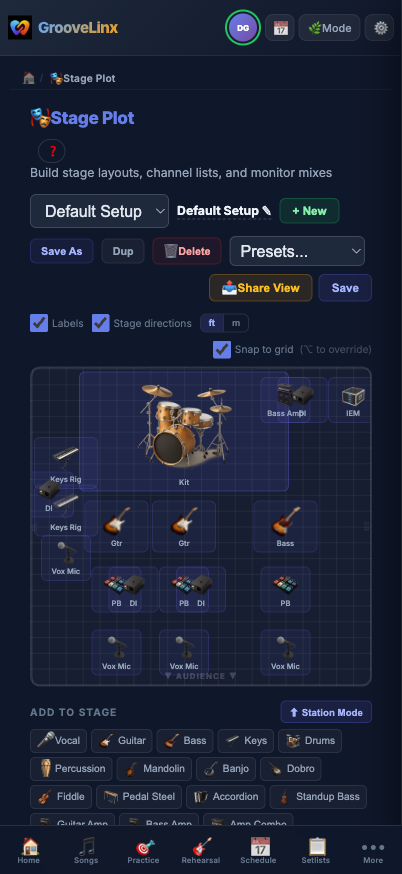
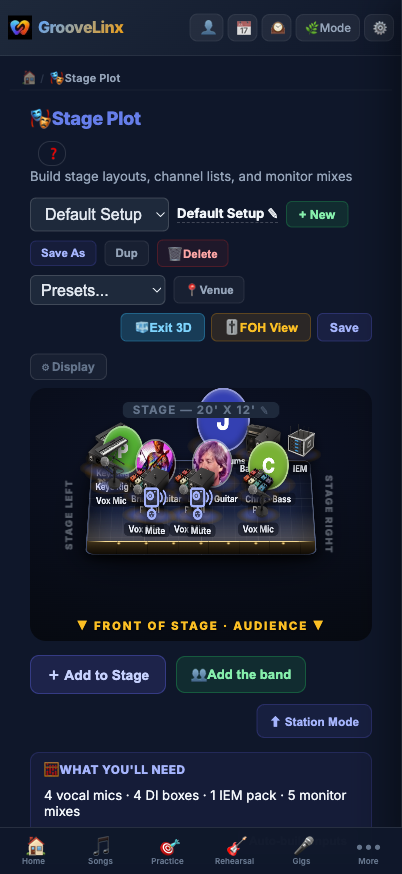
marketing(perform): real 3D stage plot capture + split charts into its own showcase
The Perform showcase paired a stale 2D stage-plot screenshot with copy about
charts. Fix the mismatch:
- gl-stageplot.png → fresh capture of the upgraded 3D stage view (member
  positions, monitor mixes, DI/IEM, auto gear pull), with copy rewritten to
  describe show-day staging.
- Add gl-chart.png (real Live Gig per-song chart) as a second showcase carrying
  the "chart you actually need" copy (auto-scroll, nav, sub-second SLA).

Both are real app screenshots at 402x874 (Test User, exclusion-guarded).

Claude-Session: https://claude.ai/code/session_012gvVjaAds3TFjzahj6JtfA

diff --git a/index.html b/index.html
@@ -291,7 +291,17 @@
 
           <div class="showcase reveal" style="--glow:rgba(255,194,75,.16)">
             <div class="phoneCard">
-              <div class="phoneFrame"><img src="/images/gl-stageplot.png" width="402" height="874" alt="GrooveLinx stage plot with band positions, mics and monitors" loading="lazy" /></div>
+              <div class="phoneFrame"><img src="/images/gl-stageplot.png" width="402" height="874" alt="GrooveLinx 3D stage plot showing each member's position, monitor mixes, DI and IEM placement and the full gear pull for the show" loading="lazy" /></div>
+            </div>
+            <div class="copy">
+              <h3>Everyone knows where they stand &mdash; before you load in</h3>
+              <p>Map the whole stage: each member's spot, monitor mixes, DI boxes and IEMs, with a channel list and a gear pull &mdash; "4 vocal mics, 4 DI boxes, 5 monitor mixes" &mdash; generated for you. Flip to a 3D view to check sightlines, then share it with the venue or FOH so nobody's guessing on show day.</p>
+            </div>
+          </div>
+
+          <div class="showcase reveal" style="--glow:rgba(255,194,75,.16)">
+            <div class="phoneCard">
+              <div class="phoneFrame"><img src="/images/gl-chart.png" width="402" height="874" alt="GrooveLinx live-gig per-song chart with chords over lyrics, auto-scroll, a tempo readout and the next songs queued" loading="lazy" /></div>
             </div>
             <div class="copy">
               <h3>The chart you actually need, the way you need it</h3>
